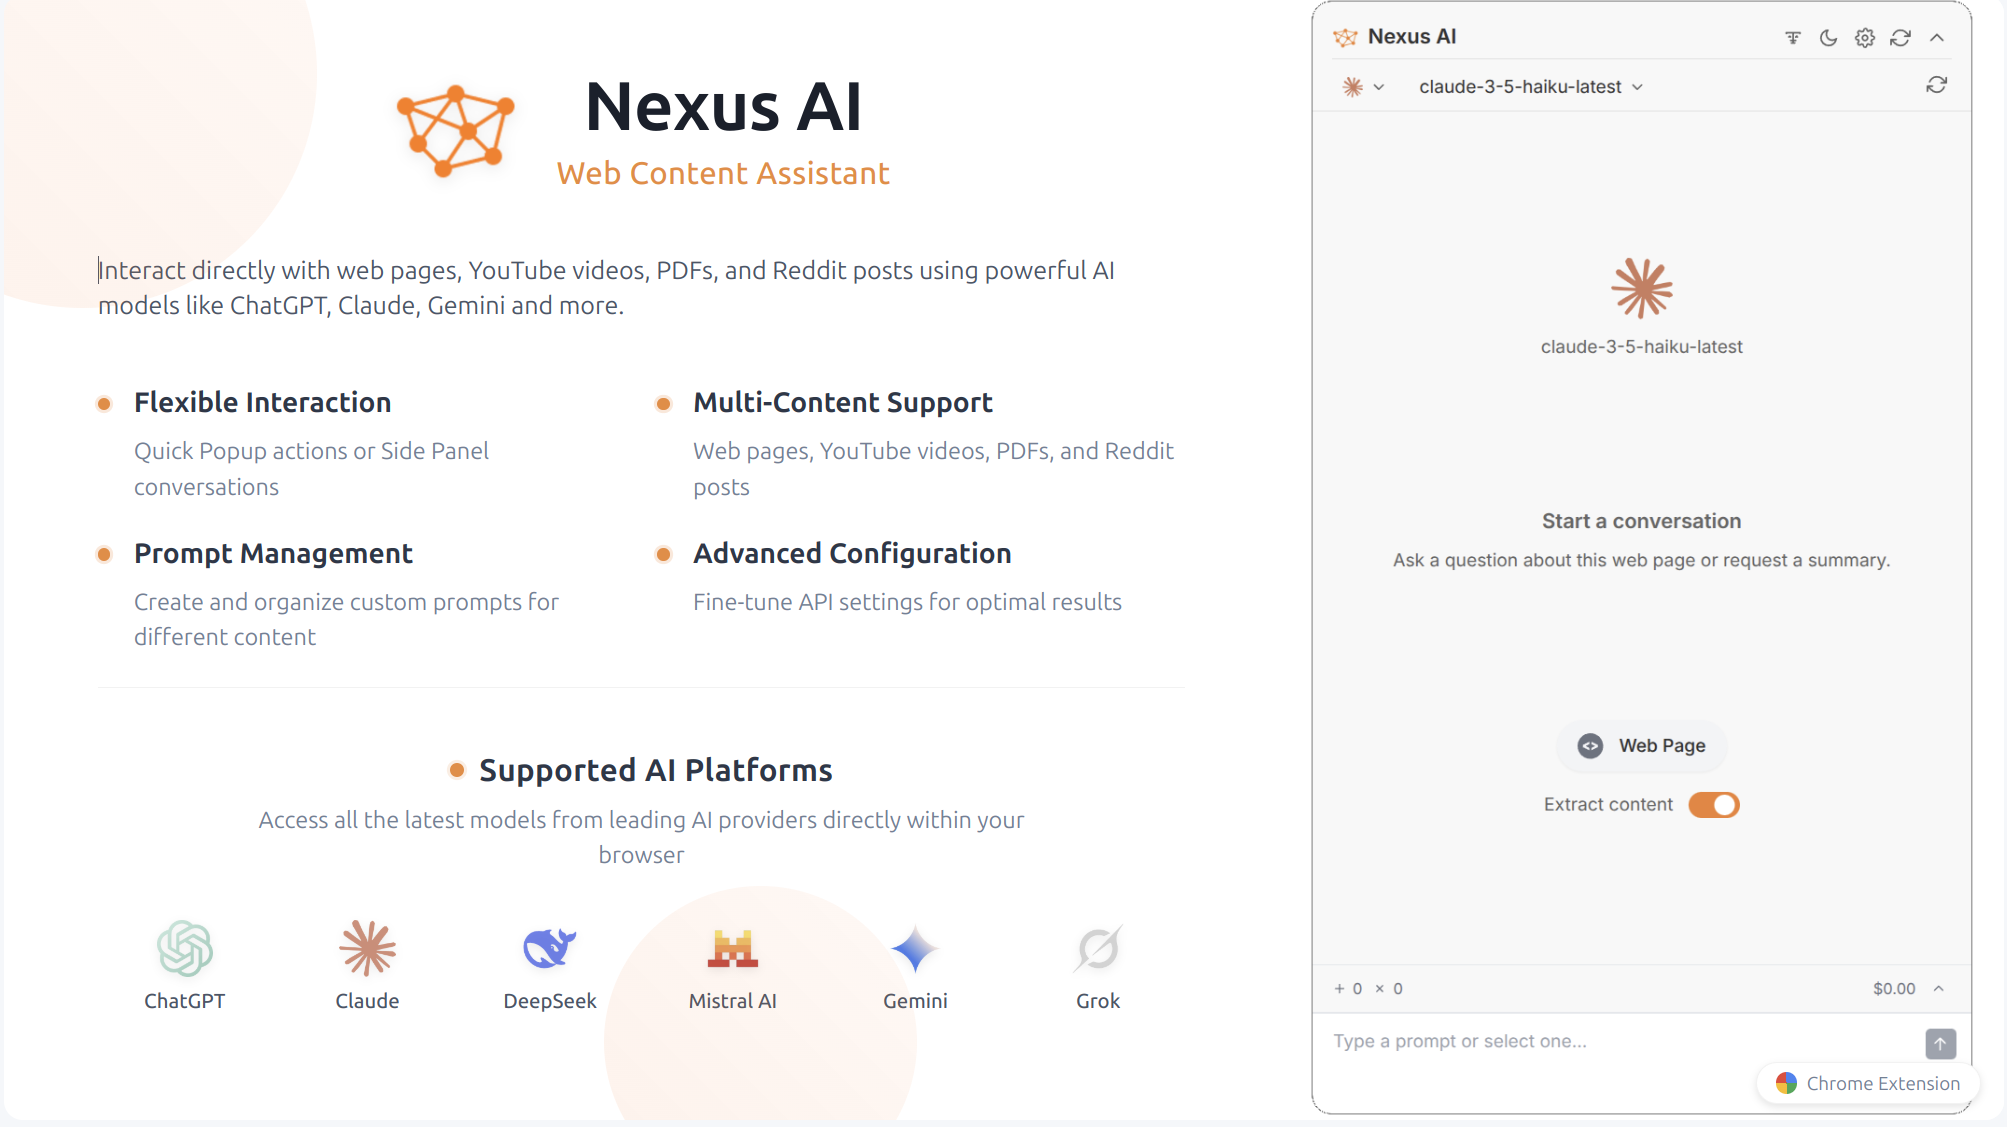
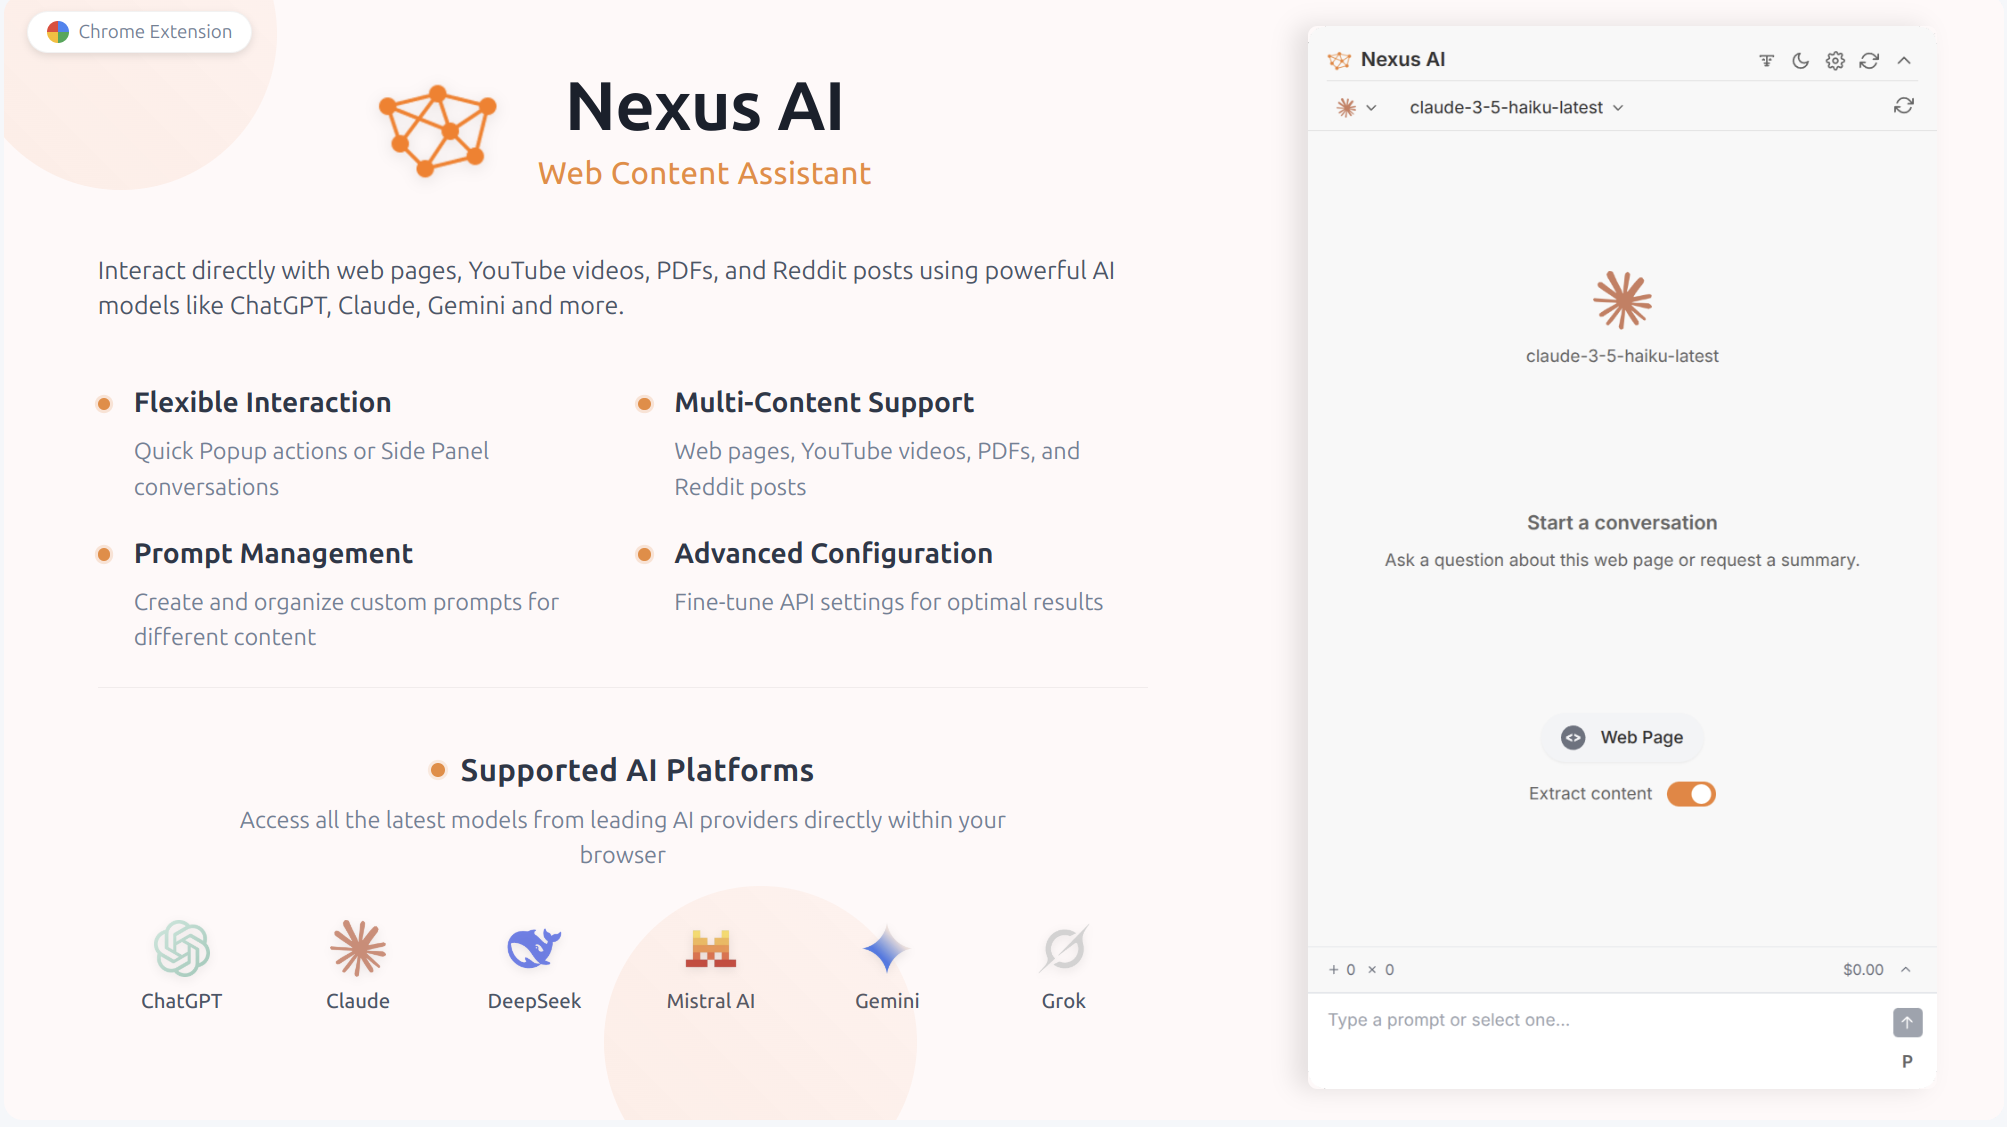
presentation udpate

diff --git a/presentation.html b/presentation.html
@@ -290,10 +290,10 @@
         }
         
         .circle-1 {
-            width: 300px;
-            height: 300px;
-            top: -100px;
-            left: -100px;
+            width: 200px;
+            height: 200px;
+            top: -75px;
+            left: -25px;
         }
         
         .circle-2 {
